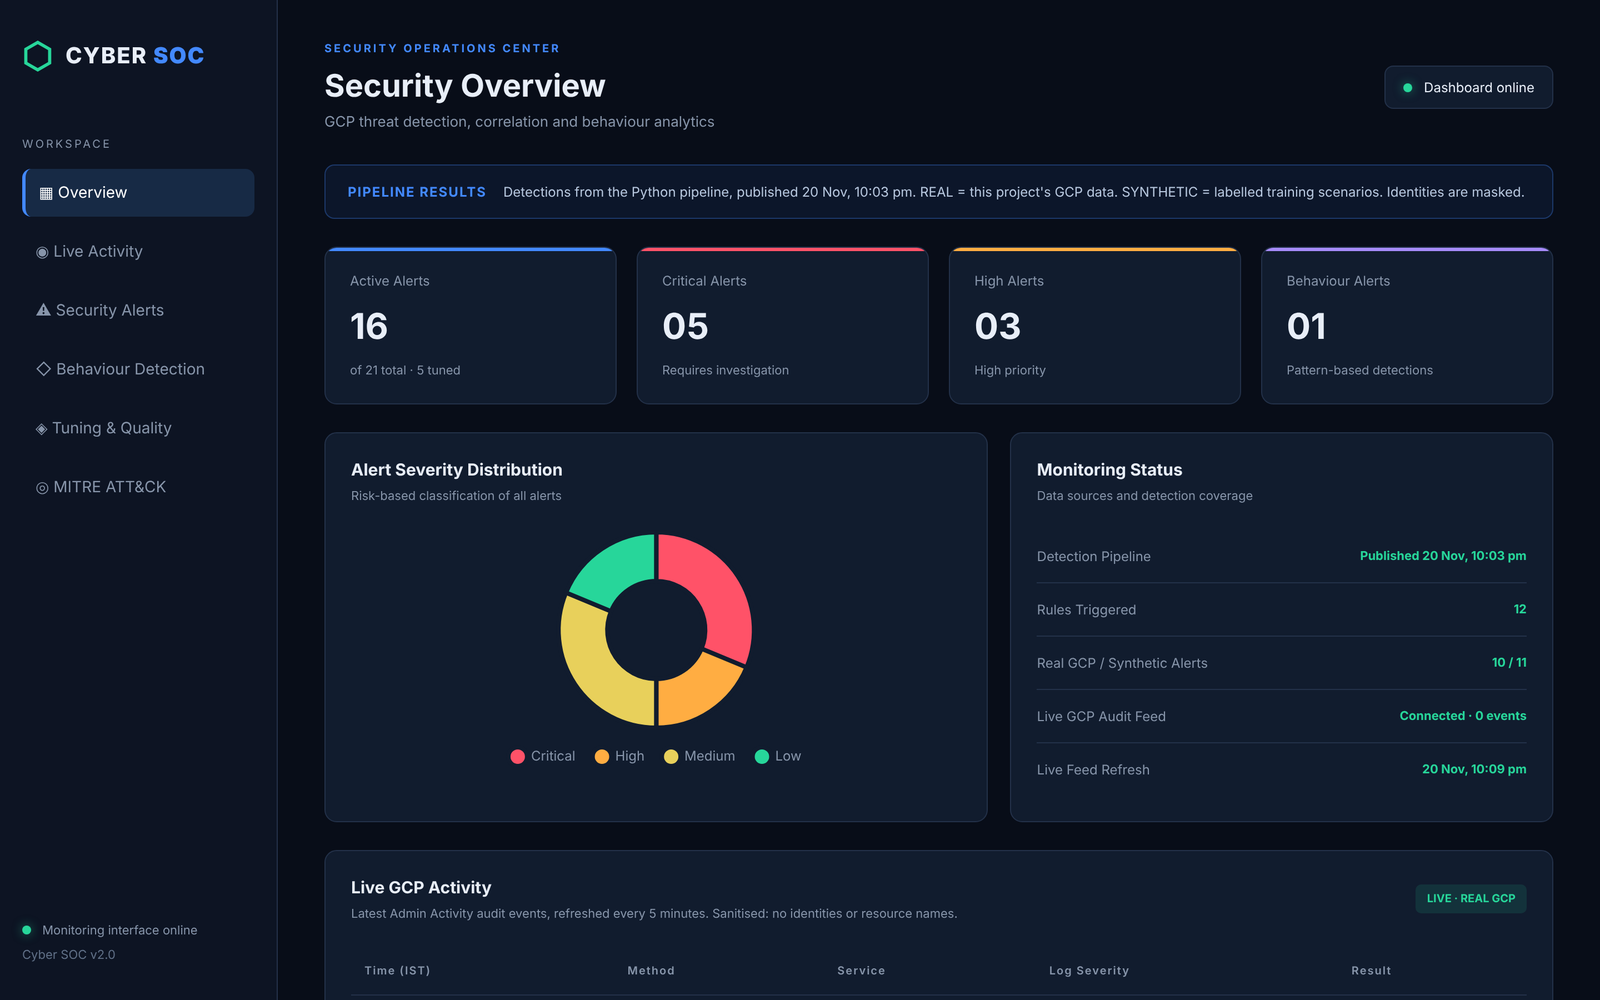
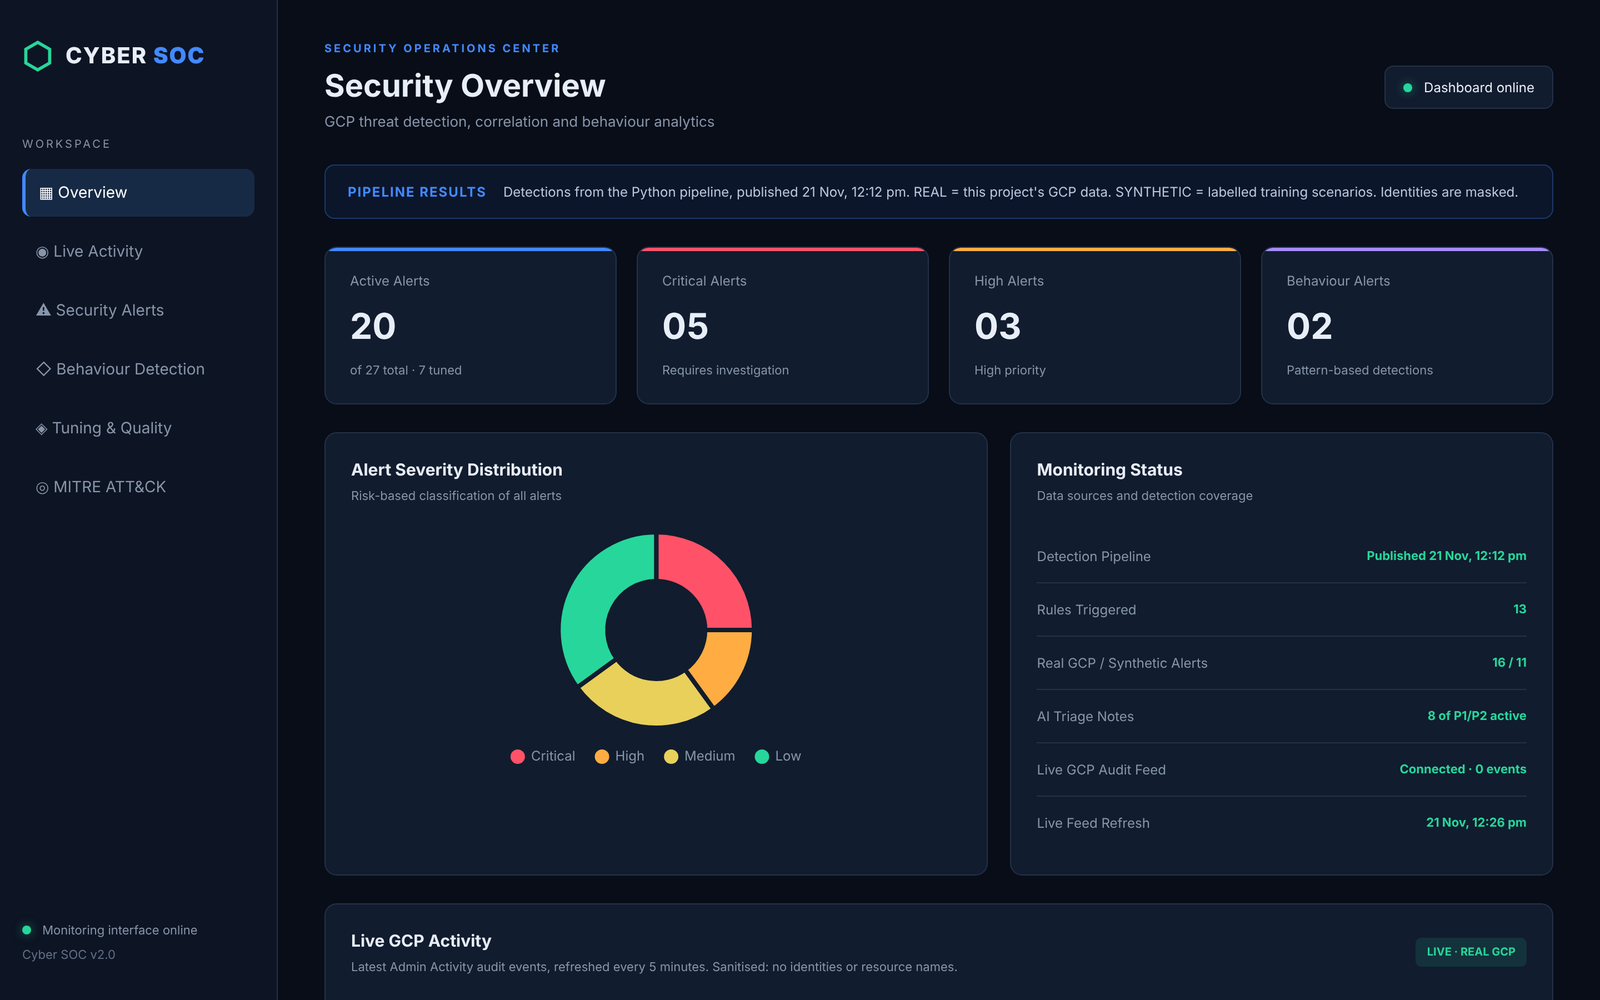
Refresh README screenshots: AI triage, 8/14 MITRE coverage, discovery rules, tuning

diff --git a/README.md b/README.md
@@ -21,13 +21,13 @@ A free, end-to-end Google Cloud threat detection and SOC project built in Python
 
 ## Screenshots
 
-| Prioritised alert queue | MITRE ATT&CK coverage |
+| Prioritised alert queue with AI triage | MITRE ATT&CK coverage |
 |---|---|
-| ![Prioritised alerts with P1–P4 priority, data labels and MITRE techniques](docs/screenshots/alerts.png) | ![MITRE ATT&CK coverage matrix: 7 of 14 tactics covered](docs/screenshots/mitre-coverage.png) |
+| ![Prioritised alerts with P1–P4 priority, data labels, MITRE techniques and an expanded AI triage note](docs/screenshots/alerts.png) | ![MITRE ATT&CK coverage matrix: 8 of 14 tactics covered](docs/screenshots/mitre-coverage.png) |
 
 | Alert tuning and detection quality | Behaviour-based detection |
 |---|---|
-| ![Suppressed benign true positive with justification and expiry, roll-up and per-rule noise rates](docs/screenshots/tuning.png) | ![Behaviour rules BEHAV-001 to BEHAV-003 with triggered alert evidence](docs/screenshots/behaviour.png) |
+| ![Suppressed benign true positive with justification and expiry, roll-up and per-rule noise rates](docs/screenshots/tuning.png) | ![Behaviour rules BEHAV-001 to BEHAV-005 with triggered alert evidence](docs/screenshots/behaviour.png) |
 
 All screenshots show real pipeline output from the public site: identities are masked and real GCP data is labelled separately from synthetic training scenarios.
 
